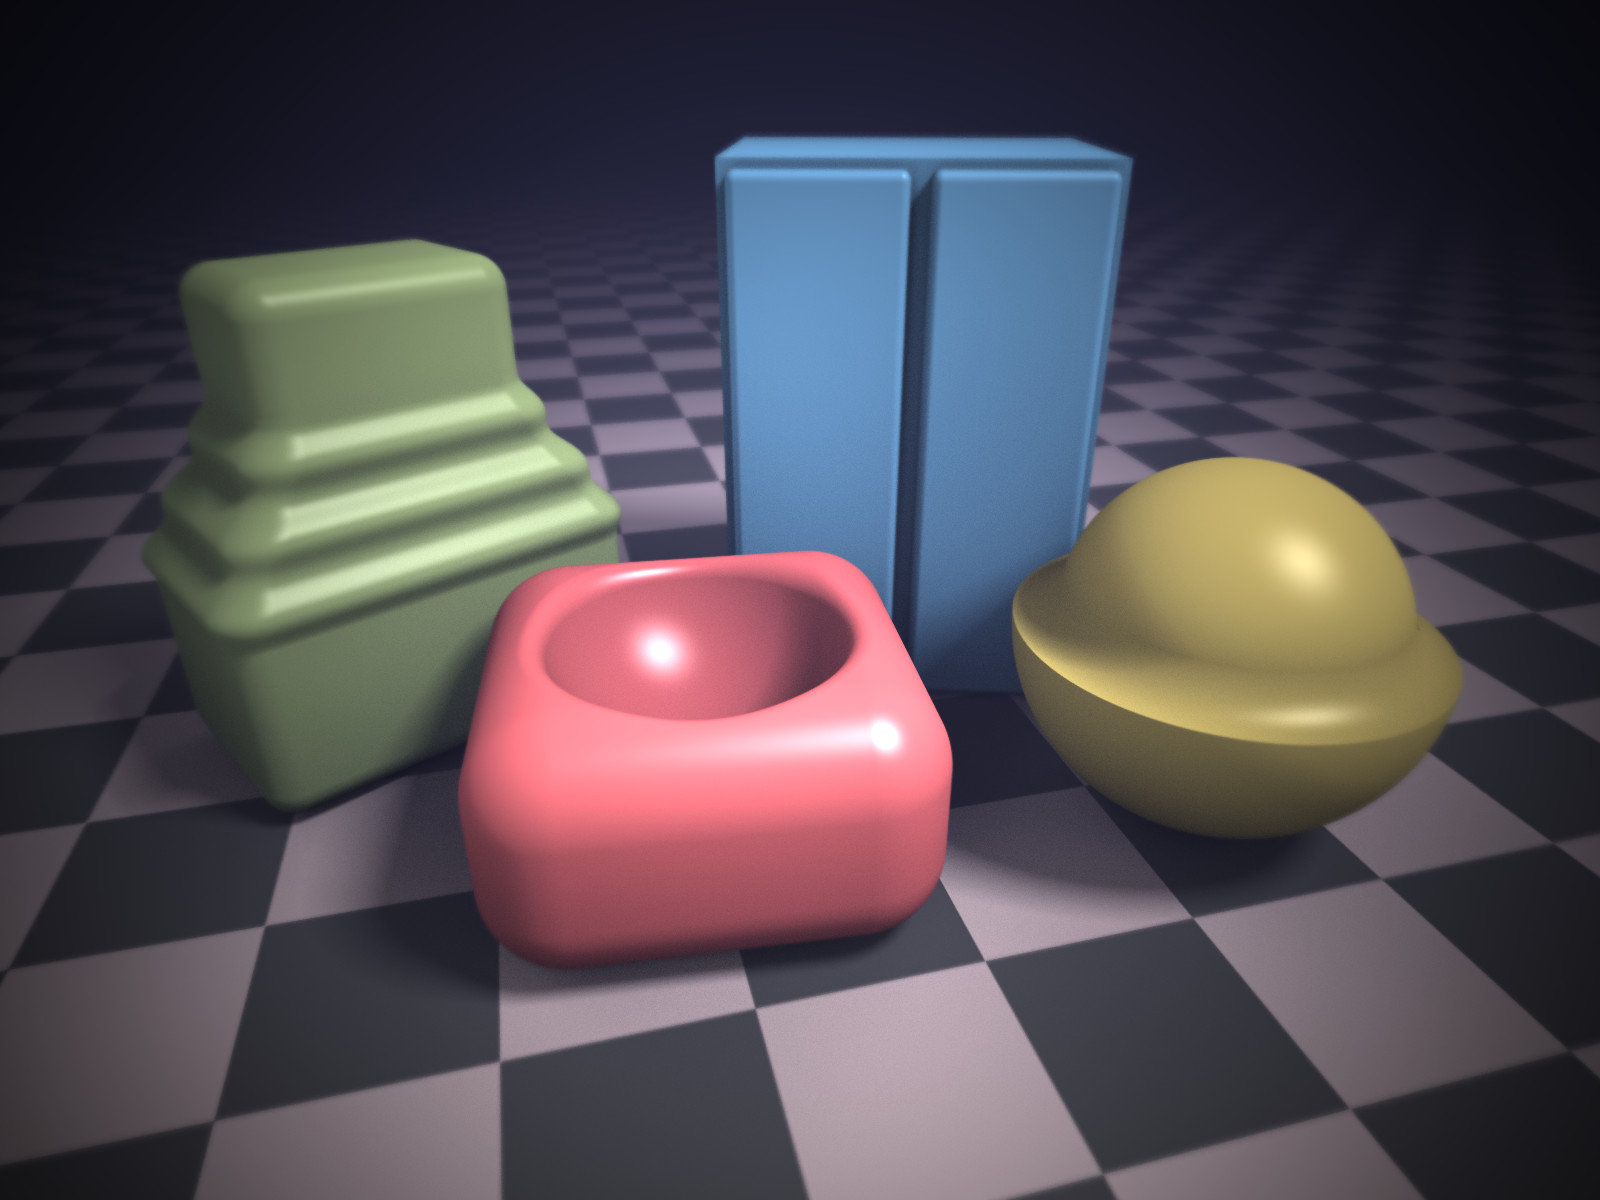
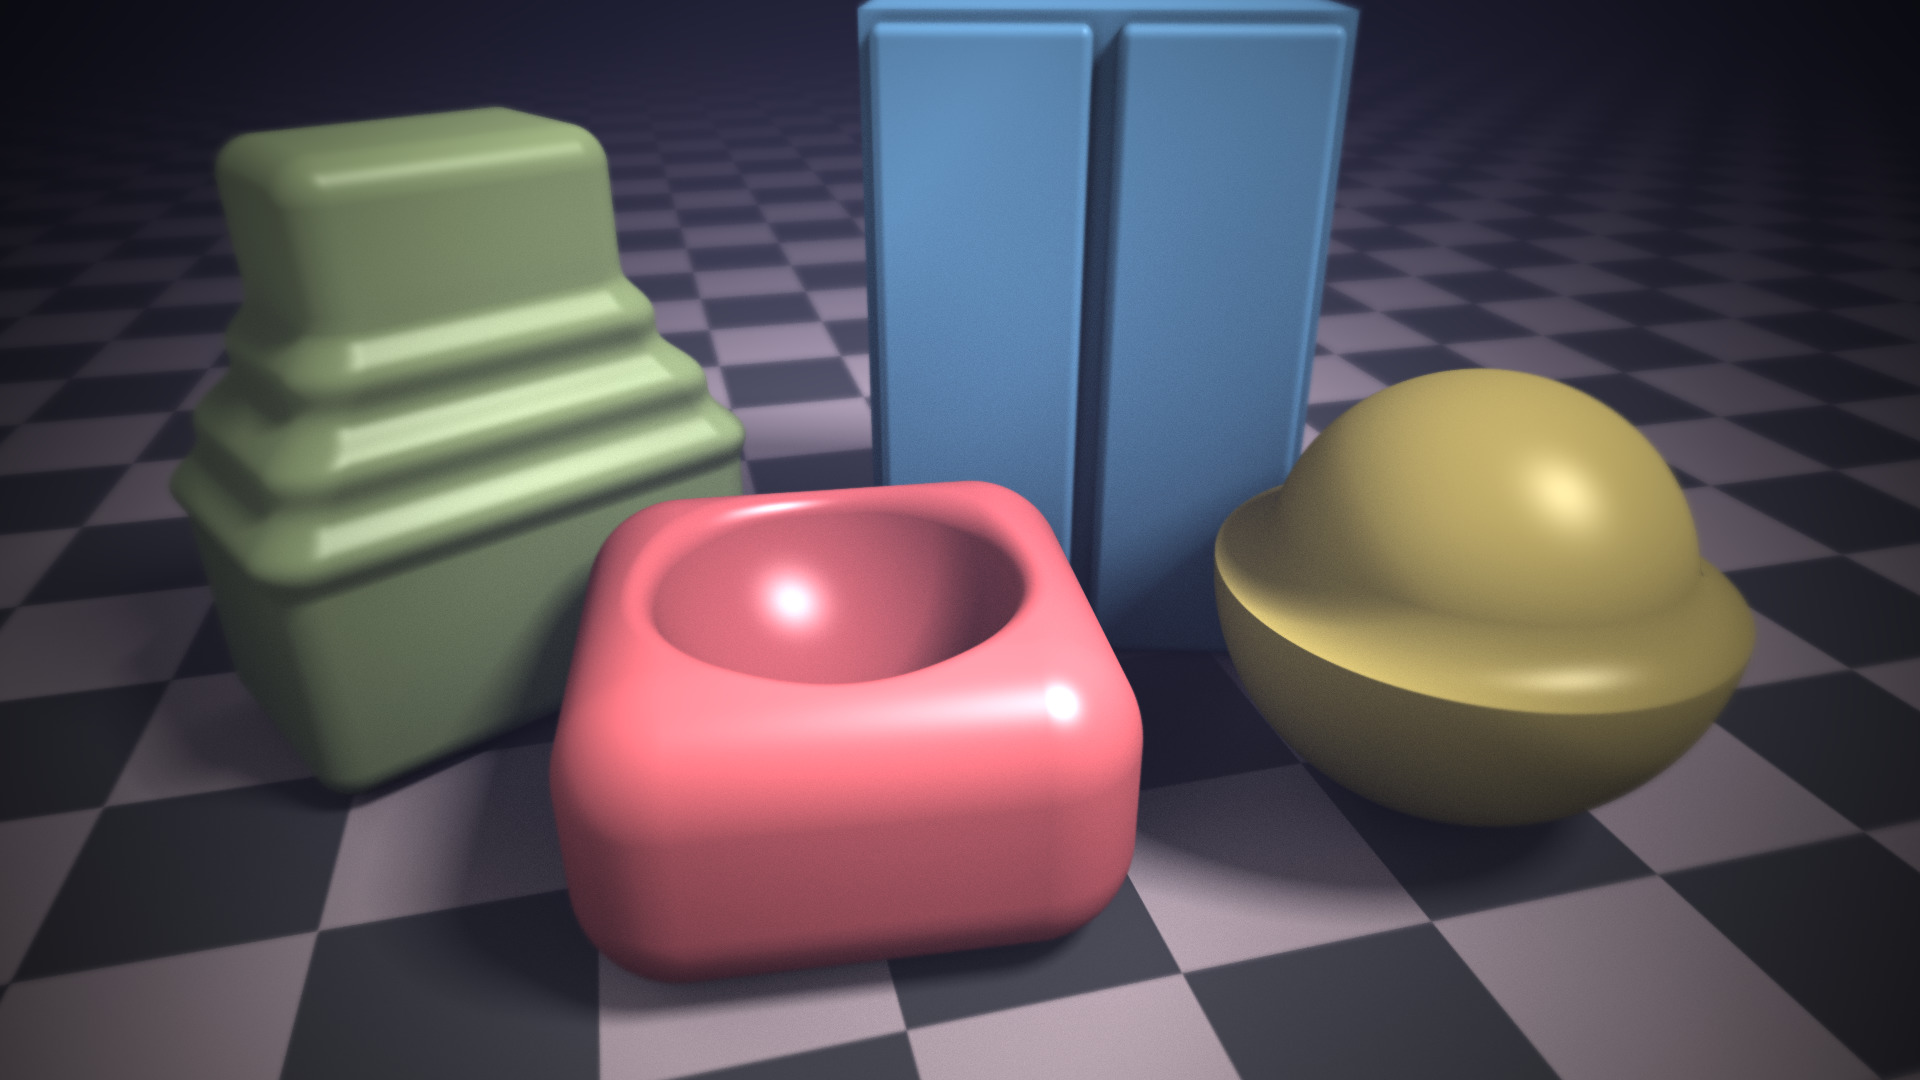
openmp

diff --git a/main.cpp b/main.cpp
@@ -4,11 +4,12 @@
 #include <algorithm>
 #include <array>
 
+#define NICE
 
 enum {
 #ifdef NICE
-	WIDTH	= 1600,
-	HEIGHT	= 1200,
+	WIDTH	= 1920,
+	HEIGHT	= 1080,
 	SAMPLES = 400,
 #else
 	WIDTH	= 800,
@@ -50,32 +51,6 @@ float cylinder(vec p, float r=0.2, float h=1) {
 	return std::max(vec(p.x, p.z).length() - r, fabsf(p.y) - h);
 }
 
-enum Material {
-	MAT_FLOOR,
-	MAT_FLOOR2,
-	MAT_SPHERE,
-	MAT_BOX,
-	MAT_BOX2,
-	MAT_BOX3,
-};
-
-vec colors[] = {
-	{ 0.9, 0.8, 0.8 },
-	{ 0.3, 0.3, 0.3 },
-	{ 0.9, 0.8, 0.4 },
-	{ 0.9, 0.4, 0.4 },
-	{ 0.5, 0.8, 1 },
-	{ 0.7, 0.8, 0.5 },
-};
-
-// material of current object
-Material material;
-
-float combine(float a, float b, Material mat) {
-	if (b < a) material = mat;
-	return std::min(a, b);
-}
-
 float combine_round(float a, float b, float r=0.1) {
 	if (std::max(a, b) < r) return r - vec(r - a, b - r).length();
 	return std::min(a, b);
@@ -94,55 +69,6 @@ vec rotate_y(vec p, float ang) {
 
 float frand() { return rand() * 2.0 / float(RAND_MAX) - 1; }
 
-float distance(vec p) {
-	material = MAT_FLOOR;
-	float d = p.y + 1;
-
-	vec ps;
-
-	ps = p + vec(1.5, 0, 0.2);
-	d = combine(d,
-		combine_round(
-			std::max(sphere(ps, 1), ps.y),
-			sphere(ps, 0.8), 0.2),
-		MAT_SPHERE);
-
-	ps = rotate_y(p, 0.1) - vec(1, -0.4, 0);
-	d = combine(d,
-		-combine_round(
-			-box(ps, vec(0.6, 0.2, 0.6), 0.4),
-			sphere(ps - vec(0, 0.7, 0), 0.7),
-			0.1),
-		MAT_BOX);
-
-	vec pb = rotate_y(p, 0.3) - vec(0, 0.5, 2);
-	pb.x = fabsf(pb.x);
-	vec pc = pb - vec(0.5, 0, -0.25);
-	d = combine(d,
-		std::min(
-			box(pb, vec(1, 1.5, 0.8)),
-			box(pc, vec(0.4, 1.4, 0.6), 0.05)),
-		MAT_BOX2);
-
-	float s = std::max(0.0f, std::min(1.0f, p.y));
-	float z = std::max(0.0f, std::min<float>(3.14159 * 6, p.y * 20));
-	s = s * s * (3 - 2 * s);
-	d = combine(d,
-		box(rotate_y(p - vec(2.4, 0.3, 1.7), -0.5),
-			vec(0.9 - s * 0.4, 1.1, 0.5 - s * 0.2), 0.2 + -cosf(z) * 0.03),
-		MAT_BOX3);
-
-	return d;
-}
-
-vec normal(vec p) {
-	float d = distance(p);
-	return vec(
-		d - distance(p - vec(E, 0, 0)),
-		d - distance(p - vec(0, E, 0)),
-		d - distance(p - vec(0, 0, E))).normalized();
-}
-
 vec random_point_in_shpere() {
 	vec v;
 	do v = vec(frand(), frand(), frand());
@@ -150,107 +76,186 @@ vec random_point_in_shpere() {
 	return v;
 }
 
-vec find_color(vec sp) {
-	vec px = (sp - vec(WIDTH, HEIGHT) * 0.5) * (2.0 / WIDTH);
-	vec dx = (px * 0.85 - vec(0, 0, -1)).normalized();
+enum Material {
+	MAT_FLOOR,
+	MAT_FLOOR2,
+	MAT_SPHERE,
+	MAT_BOX,
+	MAT_BOX2,
+	MAT_BOX3,
+};
 
-	float const MAX_DIST = 50;
-	vec col_sum;
-	for (int fn = 0; fn < SAMPLES; ++fn) {
-		vec pos = vec(1.6, 2.4, -4) + random_point_in_shpere() * frand() * 0.04;
-		vec look_at = vec(0.55, 0.3, 0);
+vec colors[] = {
+	{ 0.9, 0.8, 0.8 },
+	{ 0.3, 0.3, 0.3 },
+	{ 0.9, 0.8, 0.4 },
+	{ 0.9, 0.4, 0.4 },
+	{ 0.5, 0.8, 1 },
+	{ 0.7, 0.8, 0.5 },
+};
 
-		vec dir = (look_at - pos).normalized();
-		vec left = dir.cross(vec(0, 1, 0));
-		vec up = left.cross(dir);
-		dir = dir * dx.z + left * dx.x + up * dx.y;
 
-		float t = 0, t2 = 0;
-		float factor = 0.9;
-		int i;
-		const int N = 240;
-		vec p;
-		for (i = 0; i < N && t <= MAX_DIST; ++i) {
-			p = pos + dir * t;
-			float d = distance(p);
-			if (d < 0) {
-				factor *= 0.9;
-				t = t2;
-				continue;
-			}
-			if (d < E * 0.1) break;
-			t2 = t;
-			t += std::min(d * factor, 1.0f);
-		}
+struct Foo {
+    // material of current object
+    Material material;
 
-		vec col_fog = vec(0.15, 0.15, 0.25);
-		vec col = col_fog;
-		if (i < N && t <= MAX_DIST) {
+    float combine(float a, float b, Material mat) {
+        if (b < a) material = mat;
+        return std::min(a, b);
+    }
 
-			// checker board
-			if (material == MAT_FLOOR
-			&& (fmod(p.x + 100, 2) < 1) ^ (fmod(p.z + 100, 2) < 1)) {
-				material = MAT_FLOOR2;
-			}
+    float distance(vec p) {
+        material = MAT_FLOOR;
+        float d = p.y + 1;
 
-			vec col_diffuse = colors[material];
-			vec col_ambient = colors[material] * 0.9;
-			vec col_specular;
+        vec ps;
 
-			vec dir_light = vec(0.5, -1, 0.5).normalized();
-			vec norm = normal(p);
-//			if (0)
-			{
-				float f = std::max(0.0f, -norm.dot(dir_light));
-				col_diffuse = col_diffuse * f;
-			}
-//			if (0)
-			{
-				vec reflect = dir_light + (norm * norm.dot(dir_light)) * -2;
-				float f = pow(reflect.dot(dir), 20);
-				col_specular = vec(1, 1, 1) * f;
-			}
-//			if (0)
-			{
-				const float SHADOW_DIST = 10;
-				const float SHADOW_N = 100;
-				const float SMOOTH_SHADOW = 0.2;
-				float f = SMOOTH_SHADOW;
-				float t = E;
-				for (int i = 0; i < SHADOW_N && t < SHADOW_DIST; ++i) {
-					float d = distance(p - dir_light * t);
-					t += std::max(E * 0.1f, d * 0.7f);
-					f = std::max(0.0f, std::min(f, d / t));
-				}
-				f /= SMOOTH_SHADOW;
-				col_diffuse = col_diffuse * f;
-				col_specular = col_specular * f;
-			}
-//			if (0)
-			{
-				const float AC_DIST = 2;
-				vec q = p + norm * E * 2;
-				vec r = random_point_in_shpere().normalized();
-				if (r.dot(norm) < 0) r = r * -1;
-				float t = 0;
-				while (t < AC_DIST) {
-					float d = distance(q + r * t);
-					t += std::min(d * 0.7f, 0.3f);
-					if (d < E) break;
-				}
-				t = std::min(t, AC_DIST);
-				col_ambient = col_ambient * powf(t / AC_DIST, 2.5);
-			}
+        ps = p + vec(1.5, 0, 0.2);
+        d = combine(d,
+            combine_round(
+                std::max(sphere(ps, 1), ps.y),
+                sphere(ps, 0.8), 0.2),
+            MAT_SPHERE);
 
-			float f = pow(0.88, t); // fog
-			col = (col_diffuse + col_ambient + col_specular) * f + col_fog * (1 - f);
-		}
-		col_sum = col_sum + col;
-	}
-	col_sum = col_sum * (1.0 / SAMPLES);
-	col_sum = col_sum * powf((px + vec(0, 0, 3.5)).normalized().dot(vec(0, 0, 1.01)), 30);
-	return col_sum;
-}
+        ps = rotate_y(p, 0.1) - vec(1, -0.4, 0);
+        d = combine(d,
+            -combine_round(
+                -box(ps, vec(0.6, 0.2, 0.6), 0.4),
+                sphere(ps - vec(0, 0.7, 0), 0.7),
+                0.1),
+            MAT_BOX);
+
+        vec pb = rotate_y(p, 0.3) - vec(0, 0.5, 2);
+        pb.x = fabsf(pb.x);
+        vec pc = pb - vec(0.5, 0, -0.25);
+        d = combine(d,
+            std::min(
+                box(pb, vec(1, 1.5, 0.8)),
+                box(pc, vec(0.4, 1.4, 0.6), 0.05)),
+            MAT_BOX2);
+
+        float s = std::max(0.0f, std::min(1.0f, p.y));
+        float z = std::max(0.0f, std::min<float>(3.14159 * 6, p.y * 20));
+        s = s * s * (3 - 2 * s);
+        d = combine(d,
+            box(rotate_y(p - vec(2.4, 0.3, 1.7), -0.5),
+                vec(0.9 - s * 0.4, 1.1, 0.5 - s * 0.2), 0.2 + -cosf(z) * 0.03),
+            MAT_BOX3);
+
+        return d;
+    }
+
+    vec normal(vec p) {
+        float d = distance(p);
+        return vec(
+            d - distance(p - vec(E, 0, 0)),
+            d - distance(p - vec(0, E, 0)),
+            d - distance(p - vec(0, 0, E))).normalized();
+    }
+
+    vec find_color(vec sp) {
+        vec px = (sp - vec(WIDTH, HEIGHT) * 0.5) * (2.0 / WIDTH);
+        vec dx = (px * 0.85 - vec(0, 0, -1)).normalized();
+
+        float const MAX_DIST = 50;
+        vec col_sum;
+        for (int fn = 0; fn < SAMPLES; ++fn) {
+            vec pos = vec(1.6, 2.4, -4) + random_point_in_shpere() * frand() * 0.04;
+            vec look_at = vec(0.55, 0.3, 0);
+
+            vec dir = (look_at - pos).normalized();
+            vec left = dir.cross(vec(0, 1, 0));
+            vec up = left.cross(dir);
+            dir = dir * dx.z + left * dx.x + up * dx.y;
+
+            float t = 0, t2 = 0;
+            float factor = 0.9;
+            int i;
+            const int N = 240;
+            vec p;
+            for (i = 0; i < N && t <= MAX_DIST; ++i) {
+                p = pos + dir * t;
+                float d = distance(p);
+                if (d < 0) {
+                    factor *= 0.9;
+                    t = t2;
+                    continue;
+                }
+                if (d < E * 0.1) break;
+                t2 = t;
+                t += std::min(d * factor, 1.0f);
+            }
+
+            vec col_fog = vec(0.15, 0.15, 0.25);
+            vec col = col_fog;
+            if (i < N && t <= MAX_DIST) {
+
+                // checker board
+                if (material == MAT_FLOOR
+                && (fmod(p.x + 100, 2) < 1) ^ (fmod(p.z + 100, 2) < 1)) {
+                    material = MAT_FLOOR2;
+                }
+
+                vec col_diffuse = colors[material];
+                vec col_ambient = colors[material] * 0.9;
+                vec col_specular;
+
+                vec dir_light = vec(0.5, -1, 0.5).normalized();
+                vec norm = normal(p);
+    //			if (0)
+                {
+                    float f = std::max(0.0f, -norm.dot(dir_light));
+                    col_diffuse = col_diffuse * f;
+                }
+    //			if (0)
+                {
+                    vec reflect = dir_light + (norm * norm.dot(dir_light)) * -2;
+                    float f = pow(reflect.dot(dir), 20);
+                    col_specular = vec(1, 1, 1) * f;
+                }
+    //			if (0)
+                {
+                    const float SHADOW_DIST = 10;
+                    const float SHADOW_N = 100;
+                    const float SMOOTH_SHADOW = 0.2;
+                    float f = SMOOTH_SHADOW;
+                    float t = E;
+                    for (int i = 0; i < SHADOW_N && t < SHADOW_DIST; ++i) {
+                        float d = distance(p - dir_light * t);
+                        t += std::max(E * 0.1f, d * 0.7f);
+                        f = std::max(0.0f, std::min(f, d / t));
+                    }
+                    f /= SMOOTH_SHADOW;
+                    col_diffuse = col_diffuse * f;
+                    col_specular = col_specular * f;
+                }
+    //			if (0)
+                {
+                    const float AC_DIST = 2;
+                    vec q = p + norm * E * 2;
+                    vec r = random_point_in_shpere().normalized();
+                    if (r.dot(norm) < 0) r = r * -1;
+                    float t = 0;
+                    while (t < AC_DIST) {
+                        float d = distance(q + r * t);
+                        t += std::min(d * 0.7f, 0.3f);
+                        if (d < E) break;
+                    }
+                    t = std::min(t, AC_DIST);
+                    col_ambient = col_ambient * powf(t / AC_DIST, 30.5);
+                }
+
+                float f = pow(0.88, t); // fog
+                col = (col_diffuse + col_ambient + col_specular) * f + col_fog * (1 - f);
+            }
+            col_sum = col_sum + col;
+        }
+        col_sum = col_sum * (1.0 / SAMPLES);
+        col_sum = col_sum * powf((px + vec(0, 0, 3.5)).normalized().dot(vec(0, 0, 1.01)), 30);
+        return col_sum;
+    }
+};
+
 
 int main() {
 	FILE* f = fopen("out.ppm", "w");
@@ -258,8 +263,14 @@ int main() {
 	for (int y = 0; y < HEIGHT; ++y) {
 		printf("\rprogress:%3d%%", y * 100 / HEIGHT);
 		fflush(stdout);
+        vec color[WIDTH];
+        #pragma omp parallel
+        #pragma omp for
 		for (int x = 0; x < WIDTH; ++x) {
-			vec c = find_color(vec(x, HEIGHT - y));
+			color[x] = Foo().find_color(vec(x, HEIGHT - y));
+		}
+		for (int x = 0; x < WIDTH; ++x) {
+			vec c = color[x];
 			fprintf(f, "%c%c%c",
 				std::max(0, std::min<int>(255, c.x * 255)),
 				std::max(0, std::min<int>(255, c.y * 255)),
